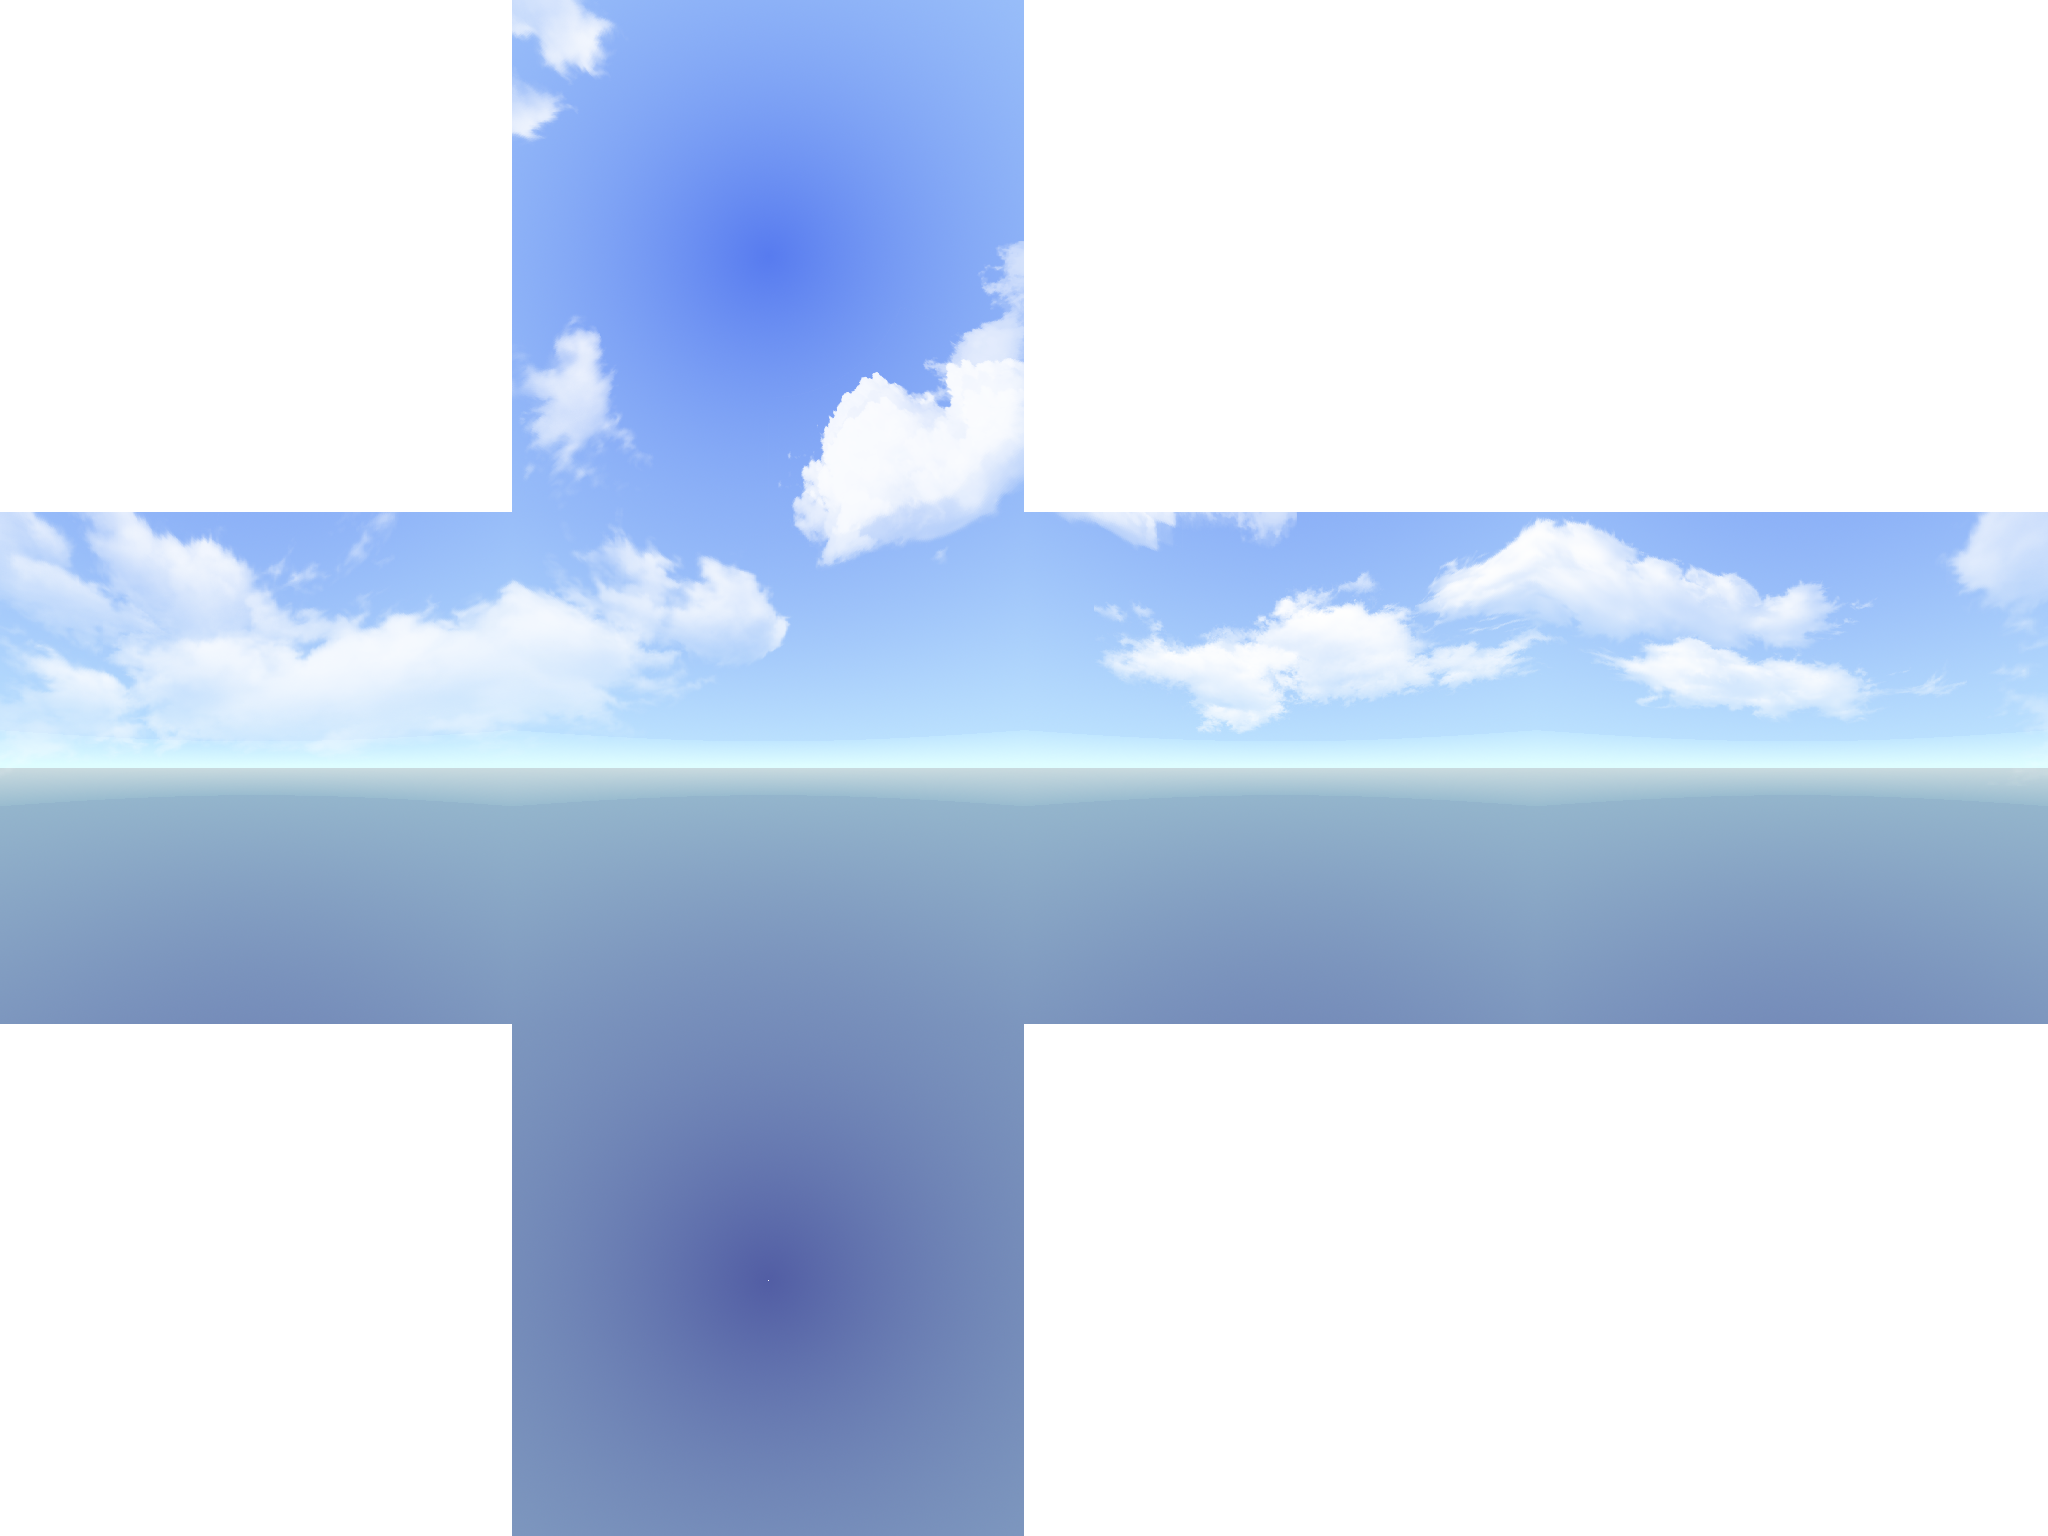
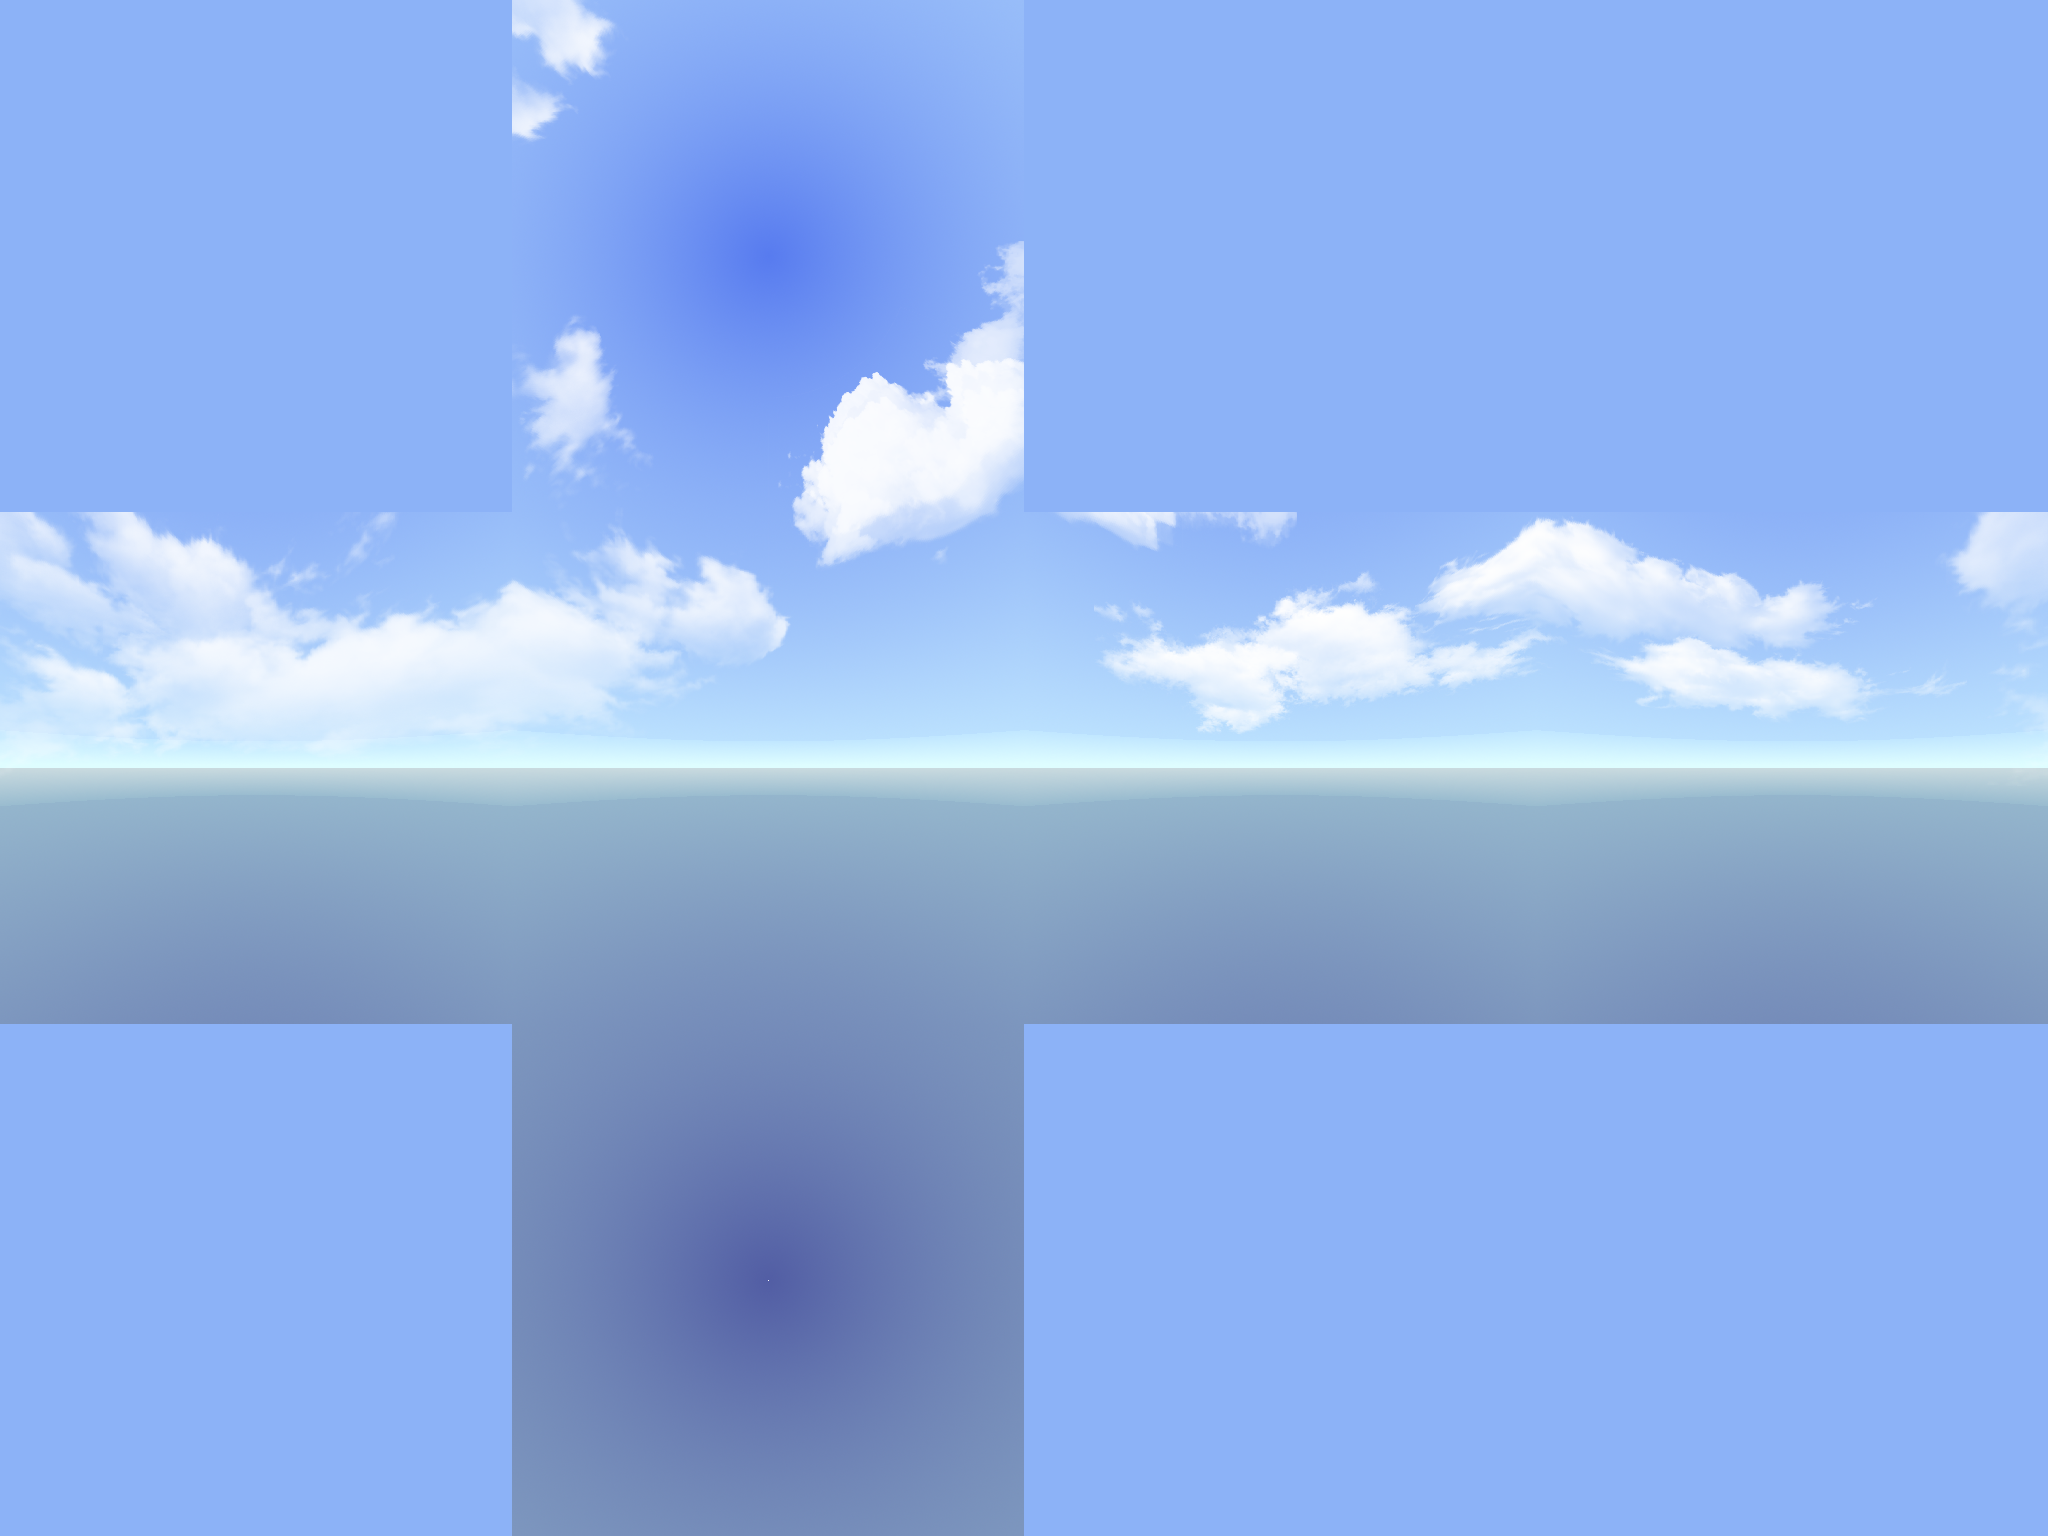
one can now look around with the mouse in the demo

diff --git a/src/engine/input/mouse.c b/src/engine/input/mouse.c
@@ -1,22 +1,57 @@
 #include <tt.h>
 
+extern SDL_Window *tt_window; //game window
+extern uint32_t tt_res_x; //game resolution
+extern uint32_t tt_res_y; //game resolution
+
+bool mouse_relative_mode_toggle=false; //is the mouse staying in one place?
+int delta_x=0; //the mouse movement relative to last frame
+int delta_y=0; //the mouse movement relative to last frame
+bool mouse_motion_read=true; //if the current mouse motion is not read yet
+	//it can be read
+
+
 //set relative mode where only relative mouse motion gets captured
 void tt_input_mouse_set_relative_mode(const bool toggle)
 {
 	if(toggle)
 	{
-		SDL_SetRelativeMouseMode(SDL_TRUE);		
+		SDL_SetRelativeMouseMode(SDL_TRUE);
+		mouse_relative_mode_toggle=true;	
 	}
 	else
 	{
-		SDL_SetRelativeMouseMode(SDL_FALSE);			
+		SDL_SetRelativeMouseMode(SDL_FALSE);
+		mouse_relative_mode_toggle=false;	
 	}
 }
 
-void tt_input_mouse_update(SDL_Event event)
+void tt_input_mouse_update(const SDL_Event event)
 {
 	if(event.type==SDL_MOUSEMOTION)
 	{
-		printf("mouse\n");
+		mouse_motion_read=false;
+		delta_x=event.motion.xrel;
+		delta_y=event.motion.yrel;
 	}
 }
+
+//this only works if the relative mode is set
+void tt_input_mouse_relative(
+	int *x_relative,
+	int *y_relative)
+{
+	if(	mouse_relative_mode_toggle &&
+		!mouse_motion_read)
+	{
+		mouse_motion_read=true;
+		*x_relative=delta_x;
+		*y_relative=delta_y;
+	}
+	else
+	{
+		*x_relative=0;
+		*y_relative=0;
+	}
+}
+

diff --git a/src/demo-shooting-range/shooting_range.cpp b/src/demo-shooting-range/shooting_range.cpp
@@ -25,9 +25,18 @@ sr::sr::~sr()
 
 }
 
-void sr::sr::update()
+void sr::sr::update(const float side_angle, const float up_angle)
 {
-	tt_vec3 rot_axis={0,1,0};
-	tt_camera_rotate(&rot_axis, 0.01);
+	//fps mouse movement
+	tt_vec3 rot_axis={1,0,0};
+	tt_camera_rotate(&rot_axis, up_angle);
+	rot_axis.x=0;
+	rot_axis.y=1;
+	tt_camera_rotate(&rot_axis, side_angle);
 	tt_new_frame();
+	tt_camera_rotate(&rot_axis, -side_angle);
+	rot_axis.x=1;
+	rot_axis.y=0;
+	tt_camera_rotate(&rot_axis, -up_angle);
+
 }

diff --git a/src/demo-shooting-range/player.cpp b/src/demo-shooting-range/player.cpp
@@ -5,3 +5,13 @@ sr::player::player()
 {
 	tt_camera_set_position(&m_pos);
 }
+
+void sr::player::update()
+{
+	//mouse movement
+	int mouse_x_rel=0;
+	int mouse_y_rel=0;
+	tt_input_mouse_relative(&mouse_x_rel, &mouse_y_rel);
+	side_angle+=0.001*mouse_x_rel;
+	up_angle+=0.001*mouse_y_rel;
+}

diff --git a/src/engine/input/input.h b/src/engine/input/input.h
@@ -8,7 +8,10 @@ void tt_input_update();
 
 //mouse
 void tt_input_mouse_set_relative_mode(const bool toggle);
-void tt_input_mouse_update(SDL_Event event);
+void tt_input_mouse_update(const SDL_Event event);
 
+void tt_input_mouse_relative(
+	int *x_relative,
+	int *y_relative);
 
 #endif

diff --git a/src/demo-shooting-range/player.hpp b/src/demo-shooting-range/player.hpp
@@ -8,8 +8,14 @@ namespace sr
 	{
 	private:
 		tt_vec3 m_pos={0,1.75,0};
+
 	public:
+		//fps mouse movement
+		float up_angle=0;
+		float side_angle=0;
+		
 		player();
 		~player(){};
+		void update();
 	};
 }

diff --git a/src/demo-shooting-range/shooting-range.hpp b/src/demo-shooting-range/shooting-range.hpp
@@ -13,7 +13,7 @@ namespace sr
 		world *m_range=NULL;
 
 	public:
-		void update();
+		void update(const float side_angle, const float up_angle);
 		sr();
 		~sr();
 	};

diff --git a/src/demo-shooting-range/main.cpp b/src/demo-shooting-range/main.cpp
@@ -7,7 +7,8 @@ int main(void)
 
 	for(int i=0; i<1000; i++)
 	{
-		sr.update();
+		player.update();
+		sr.update(player.side_angle, player.up_angle);
 	}
 	return 0;
 }
